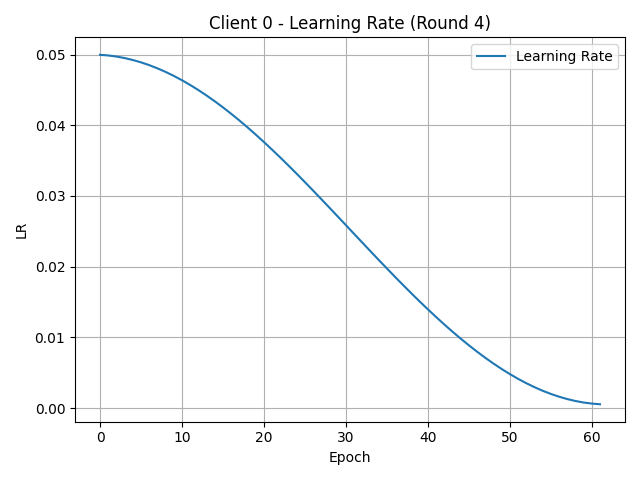
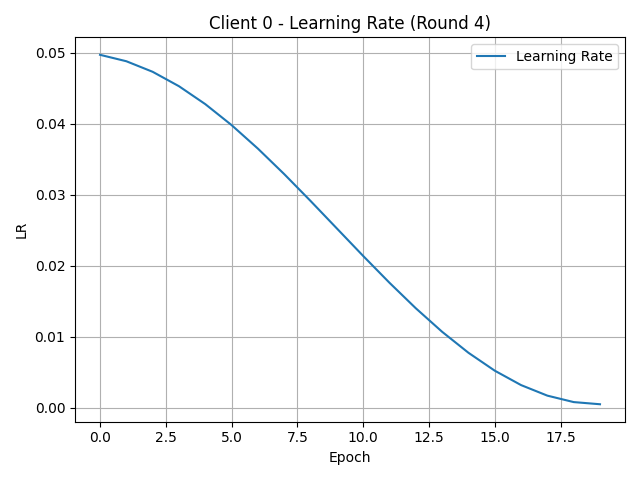
Update FL-Basic
Chages made: 1) Merge Accuracy And Loss in one Plot. 2) Training clients 2 -> 4. 3) Train 20 local epoch for 5 rounds

diff --git a/flwr-cifar10-basic/flwr_cifar10_basic/client_app.py b/flwr-cifar10-basic/flwr_cifar10_basic/client_app.py
@@ -79,7 +79,7 @@ class FlowerClient(NumPyClient):
         scheduler = CosineAnnealingWithRestarts(
             eta_max=0.05,
             eta_min=0.0005,
-            T_0=63,
+            T_0=20,
             T_mul=1
         )
         lr_logger = LRSchedulerLogger()
@@ -106,27 +106,16 @@ class FlowerClient(NumPyClient):
         plt.figure()
         plt.plot(smooth_curve(H.history["accuracy"], factor=0.5), label="Train Accuracy")
         plt.plot(smooth_curve(H.history["val_accuracy"], factor=0.55), label="Validation Accuracy")
-        plt.title(f"Client {self.partition_id} - Accuracy (Round {actual_round})")
-        plt.xlabel("Epoch")
-        plt.ylabel("Accuracy")
-        plt.ylim(0, 1)
-        plt.legend()
-        plt.grid(True)
-        plt.tight_layout()
-        plt.savefig(f"{plot_dir}/accuracy_round_{actual_round}.png")
-        plt.close()
-
-        # Gráfico de pérdida (loss)
-        plt.figure()
         plt.plot(smooth_curve(H.history["loss"], factor=0.5), label="Train Loss")
         plt.plot(smooth_curve(H.history["val_loss"], factor=0.55), label="Validation Loss")
-        plt.title(f"Client {self.partition_id} - Loss (Round {actual_round})")
+        plt.axhline(y=1, color='r', linestyle='--', linewidth=1.5)
+        plt.title(f"Client {self.partition_id} - Metrics (Round {actual_round})")
         plt.xlabel("Epoch")
-        plt.ylabel("Loss")
+        plt.ylabel("Metrics")
         plt.legend()
         plt.grid(True)
         plt.tight_layout()
-        plt.savefig(f"{plot_dir}/loss_round_{actual_round}.png")
+        plt.savefig(f"{plot_dir}/metrics_round_{actual_round}.png")
         plt.close()
 
         # Grafico Learning Rate

diff --git a/flwr-cifar10-basic/flwr_cifar10_basic/plot_results_json.py b/flwr-cifar10-basic/flwr_cifar10_basic/plot_results_json.py
@@ -2,7 +2,7 @@ import json
 import matplotlib.pyplot as plt
 import os
 import numpy as np
-MODEL = 'lenet'
+MODEL = 'vgg19'
 
 # Ruta al archivo
 results_path = f"/workspace/flwr-cifar10-basic/flwr_cifar10_basic/results_{MODEL}.json"
@@ -32,35 +32,23 @@ for rnd_str in sorted(results.keys(), key=lambda x: int(x)):
     val_loss.append(data["loss_val"])
     test_loss.append(data["loss_test"])
 
-# Plot: Accuracy
+# Plot: Accuracy and Loss
 plt.figure()
 # plt.plot(rounds, train_acc, label="Train Accuracy")
 plt.plot(rounds, val_acc, label="Validation Accuracy")
 plt.plot(rounds, test_acc, label="Test Accuracy")
-plt.xlabel("Round")
-plt.ylabel("Accuracy")
-plt.title("Global Evaluation (Accuracy)")
-plt.ylim(0,1)
-plt.xticks(np.arange(1,6,1))
-plt.legend()
-plt.grid(True)
-plt.tight_layout()
-plt.savefig(f"{output_dir}/accuracy_over_rounds.png")
-plt.close()
-
-# Plot: Loss
-plt.figure()
-# plt.plot(rounds, train_loss, label="Train Loss")
 plt.plot(rounds, val_loss, label="Validation Loss")
 plt.plot(rounds, test_loss, label="Test Loss")
+plt.axhline(y=1, color='r', linestyle='--', linewidth=1.5)
 plt.xlabel("Round")
-plt.ylabel("Loss")
-plt.title("Global Evaluation (Loss)")
-plt.legend()
+plt.ylabel("Metrics")
+plt.title("Global Evaluation")
 plt.xticks(np.arange(1,6,1))
+plt.legend()
 plt.grid(True)
 plt.tight_layout()
-plt.savefig(f"{output_dir}/loss_over_rounds.png")
+plt.savefig(f"{output_dir}/metrics_over_rounds.png")
 plt.close()
+
 
 print(f"Gráficos guardados en: {output_dir}/")

diff --git a/flwr-cifar10-basic/flwr_cifar10_basic/task.py b/flwr-cifar10-basic/flwr_cifar10_basic/task.py
@@ -185,13 +185,13 @@ def load_data(partition_id, num_partitions):
     print("Number of images in dataset (Test):", images["test"].shape[0])
     
 
-    print("-" * 80)
-    print("Label distribution:")
-    for split in ["train", "valid", "test"]:
-        label_counts = Counter(labels[split])
-        print(f"{split.upper()} set class distribution:")
-        for cls in sorted(label_counts):
-            print(f"  Class {cls}: {label_counts[cls]} samples")
-        print("-" * 40)
-    print("-" * 80)
+    # print("-" * 80)
+    # print("Label distribution:")
+    # for split in ["train", "valid", "test"]:
+    #     label_counts = Counter(labels[split])
+    #     print(f"{split.upper()} set class distribution:")
+    #     for cls in sorted(label_counts):
+    #         print(f"  Class {cls}: {label_counts[cls]} samples")
+    #     print("-" * 40)
+    # print("-" * 80)
     return images, labels
